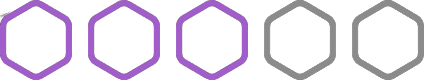
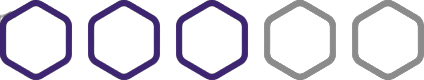
Add files via upload

Changed region(s): [[0.0, 0.0, 0.5825, 1.0]]

diff --git a/index.html b/index.html
@@ -14,8 +14,11 @@
         <div id="barra-menu"></div>
         </div>
         <img id="logo" src="./imagens/845492_763-removebg-preview.png" alt="Error">
-        <nav>
+        <nav class="menu-mobile">
             <ul id="menu">
+                <div class="icone-fechar">
+                    <h1>X</h1>
+                </div>
                 <li id="id-home"><a href="#home">Home</a></li>
                 <li><a href="#sobre">Sobre</a>
                     <ul>
@@ -32,7 +35,7 @@
                 <p>👋 Saudações pessoas!</p>
             </div>
             <p id="apresentacao">DANIEL<br>PEREIRA</p>
-            <p id="titulo">Aspirante a Desenvolvedor Back-end</p>
+            <p id="titulo">Estudante de Desenvolvimento Back-end</p>
         </nav>
         <div id="arco">
             <div id="arco1"></div>
@@ -102,17 +105,20 @@
 
     <section id="sobre">
         <div id="resumo">
-            <p>Sobre mim</p>
+            <p>Sobre</p>
         </div>
         <p id="sobre-meunome">DANIEL PEREIRA DOS SANTOS</p>
         <div id="sobre-apresentacao">
             <p>Olá meu nome é Daniel Pereira dos Santos, mas pode me chamar somente de Daniel.</p>
-            <p>Há cerca de 1 ano mudei de aréa de atuação, indo da Física para Desenvolvimento de Softwares devido a falta de oportunidades de atuação.</p>
+            <p>Há cerca de 1 ano mudei de aréa de atuação, indo da Física para Desenvolvimento de Softwares devido ao meu sempre presente desejo pela área, lógica e oportunidades de atuação no mercado.</p>
             <p>Atualmente faço graduação em Gestão da Tecnologia da Informação pela Faculdade Martha Falcão Wyden.</p>
             <p>Meu foco atual é no desenvolvimento Back-End .NET, MySQL, SQL Server, Git e GitHub, além de conhecimento em HTML, CSS e JavaScript.</p>
         </div>
-        <h2>Hard Skills</h2>
         <div id="skills">
+            <p>Skills</p>
+        </div>
+        <p class="titulo-skill" id="titulo-hard-skill">Hard Skills</p>
+        <div id="h-skills">
             <div class="hard-skill">
                 <p>C#</p>
                 <img src="./imagens/hexagono4.png" alt="Error">
@@ -149,6 +155,11 @@
                 <p>JavaScript</p>
                 <img src="./imagens/hexagono3.png" alt="Error">
             </div>
+        </div>
+        <p class="titulo-skill" id="titulo-tecnologias-interesse">Interesses para o Futuro</p>
+        <div id="tecnologias-interesse">
+            <a href="https://flutter.dev"><img id="flutter-logo" src="./imagens/flutter-seeklogo.com.svg"></a>
+            <a href="https://angular.io"><img id="angular-logo" src="./imagens/4373284_angular_logo_logos_icon.png"></a>
         </div>
     </section>
 

diff --git a/style.css b/style.css
@@ -1,7 +1,4 @@
 body{
-    position: relative;
-    width: 1920px;
-    height: 1080px;
     background: #090E16;
     color:#FFFFFF;
     font-family: 'Raleway';
@@ -54,6 +51,11 @@ body{
     height: 64px;
     left: 400px;
     top: 38px;
+}
+.icone-fechar h1{
+    width: 0px;
+    height: 0px;
+    color:rgba(123, 74, 226, 0.05);
 }
 #menu li{
     align-items: center;
@@ -319,8 +321,38 @@ body{
 }
 #skills{
     position: absolute;
+    width: 160px;
+    height: 45px;
     left: 250px;
-    top: 1700px;
+    top: 1600px;
+    background: rgba(123, 74, 226, 0.1);
+    border-radius: 16px;
+    font-weight: 700;
+    font-size: 20px;
+    line-height: 23px;
+    display: flex;
+    align-items: center;
+    text-align: center;
+    color: #7B4AE2;
+}
+.titulo-skill{
+    position: absolute;
+    width: 663px;
+    height: 60px;
+    font-weight: 800;
+    font-size: 48px;
+    line-height: 56px;
+    text-align: center;
+    color: #FFFFFF;
+}
+#titulo-hard-skill{
+    left: 628px;
+    top: 1650px;
+}
+#h-skills{
+    position: absolute;
+    left: 250px;
+    top: 1800px;
     width:1200px;
     height:600px;
     display:grid;
@@ -341,7 +373,59 @@ body{
     font-weight: 900;
     font-size: 36px;
     line-height: 42px;
-    color: #A15DCA;
+    color: #7B4AE2;
+}
+#titulo-tecnologias-interesse{
+    left: 628px;
+    top: 2370px;
+}
+#tecnologias-interesse{
+    position: absolute;
+    left: 850px;
+    top: 2570px;
+    padding-bottom: 200px;
+}
+#flutter-logo{
+    max-width: 70px;
+    max-height: 70px;
+    width: auto;
+    height: auto;
+    margin-right: 100px;
+}
+#angular-logo{
+    max-width: 80px;
+    max-height: 80px;
+    width: auto;
+    height: auto;
 }
 
- 
+@media screen and (max-width: 720px) {
+    #logo{
+        width: 0px;
+        height: 0px;
+    }
+    
+
+
+    #sociais{
+        left: 300px;
+        top: 50px;
+    }
+    #arco{
+        left: 175px;
+        top: 150px;
+    }
+    #arco1{
+        width: 400px;
+        height: 400px;
+    }
+    #arco2{
+        width: 400px;
+        height: 400px;
+        filter: blur(20px);
+    }
+    #minha-foto{
+        max-width: 320px;
+        max-height: 320px;
+    }
+}
